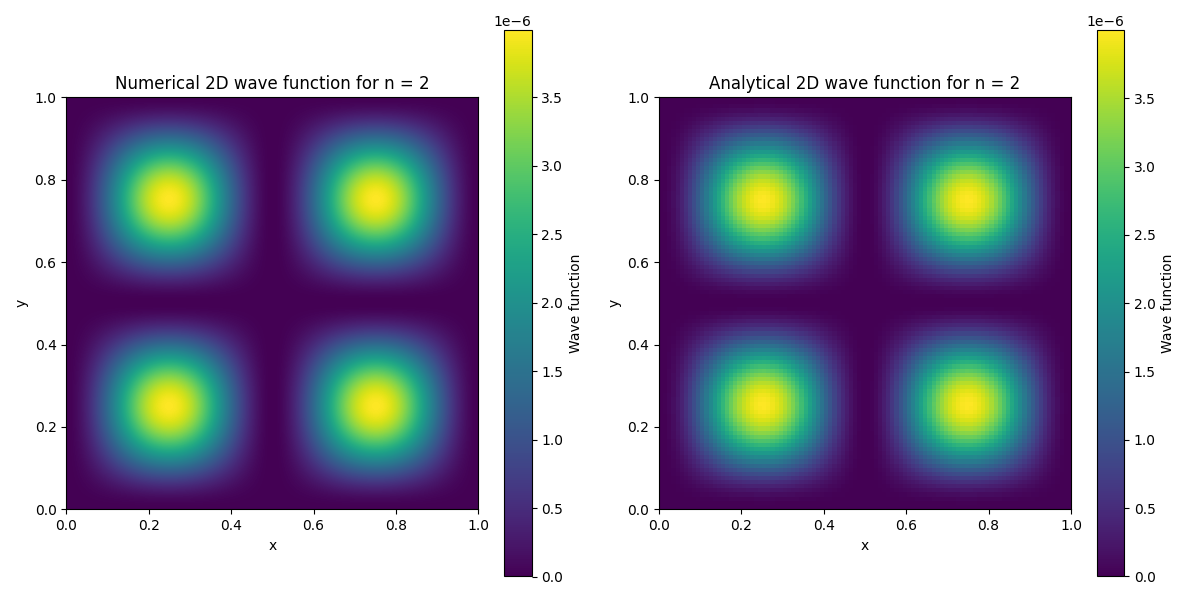
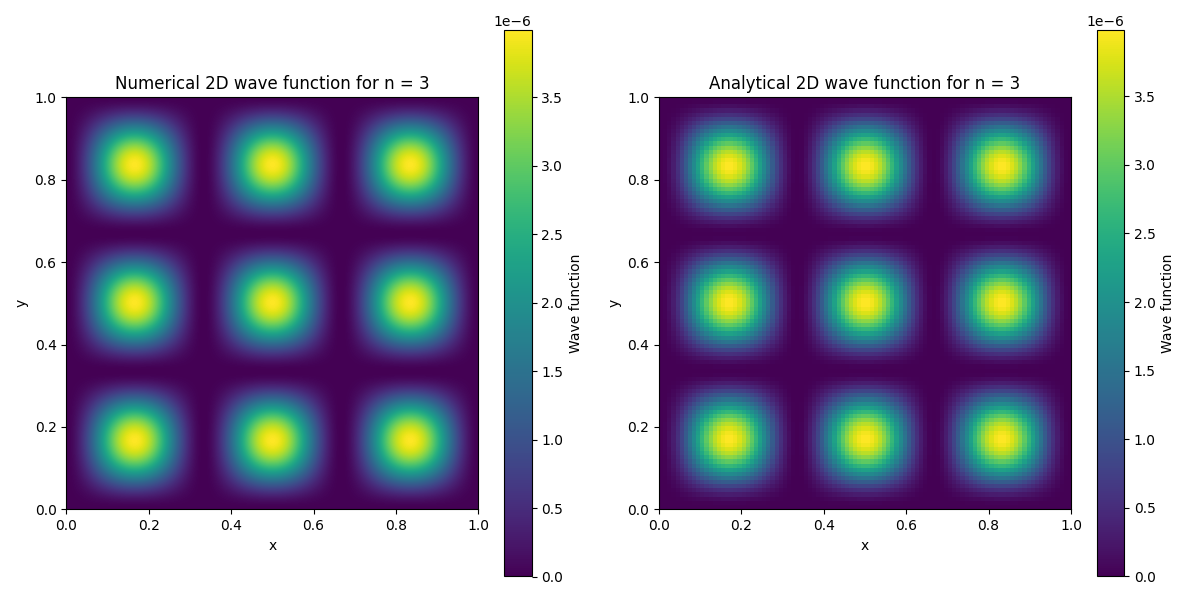
updating

diff --git a/cnub/1D_finite_well.py b/cnub/1D_finite_well.py
@@ -1,0 +1,79 @@
+import numpy as np
+from scipy.optimize import fsolve
+import matplotlib.pyplot as plt
+import math
+
+
+a = 4
+hbar = 1
+m = 1
+V0 = 10
+
+x = np.linspace(0.1, 8, 1000)  # More points for higher accuracy
+
+def RHS(x):
+    return np.tan(x)
+
+def LHS(x):
+    return np.sqrt((a**2 * m * V0) / (2 * hbar**2 * x**2) - 1)
+
+def diff(x):
+    return RHS(x) - LHS(x)
+
+# Initial guesses for energies
+initial_guesses = [1.5, 4, 7]
+
+
+# gives bound state energies
+E = fsolve(diff, initial_guesses)
+
+print("bound state energies:", E)
+
+
+# Plot RHS
+plt.plot(x, RHS(x), label='RHS: tan(x)')
+
+# Plot LHS
+plt.plot(x, LHS(x), label='LHS: sqrt((a^2 * m * V0) / (2 * hbar^2 * x^2) - 1)')
+
+plt.ylim(bottom=0, top=10)
+
+plt.legend()
+plt.grid(True)
+plt.title('Graphs of RHS and LHS functions')
+plt.xlabel('x')
+plt.ylabel('y')
+plt.show()
+
+# just try graphing first energy
+
+# define terms
+E1 = E[0]
+k0 = np.sqrt(2 * m / hbar**2 * (V0 - E1))
+k1 = np.sqrt(2 * m * E1 / hbar**2)
+# below is almost certainly irrelevant, but i don't want to have to rewrite it if it's right
+# F = np.sqrt((1 + 1/(4*k1**3) * ((k1**2 - k0**2) * np.sin(2 * k1 * a) - 4 * k0 * k1 * (np.cos(k1 * a))**2 + 2 * a * k1**3 + k1 * (2 * a * k0**2 + 4 * k0)) - 1/(2*k0))* 2 * k0 * np.e**(2 * k0 * a))
+
+def psi_0(x):
+    return np.exp(k0 * x)
+
+def psi_1(x):
+    return k0/k1 * np.sin(k1 * x) + np.cos(k1 * x)
+
+def psi_2(x):
+    return np.exp(-k0 * x)
+
+# set up linspaces to graph all 3
+x0 = np.linspace(-a/2, 0, 100)
+x1 = np.linspace(0, a, 100)
+x2 = np.linspace(a, 1.5*a, 100)
+
+plt.plot(x0, psi_0(x0), label='Graph 1')
+plt.plot(x1, psi_1(x1), label='Graph 2')
+plt.plot(x2, psi_2(x2), label='Graph 3')
+
+# Add a legend
+plt.legend()
+
+# Show the plot
+plt.show()

diff --git a/cnub/1D_Schrodinger_numerical.py b/cnub/1D_Schrodinger_numerical.py
@@ -32,7 +32,7 @@ psi_norm = normalize(psi)
 # function to graph the nth harmonic
 def harmonic(n, N):
     for i, points_array in enumerate(psi_norm[n-1:n]):
-        plt.plot(points_array, label=f'Numerical: n = {n}')
+        plt.plot(points_array**2, label=f'Numerical: n = {n}')
     
     x = np.linspace(0, N, 100) # x ranges from 0 to 1000
 
@@ -45,18 +45,19 @@ def harmonic(n, N):
     
     for a in range(n, n+1):
         psi_norm_ana = normalize_analytical(a, x)
-        plt.plot(x, psi_norm_ana, label=f'Analytical: n = {a}')
+        plt.plot(x, psi_norm_ana**2, label=f'Analytical: n = {a}', ls=':', color='black')
 
     # Set labels and title
     plt.xlabel('X-axis')
     plt.ylabel('Y-axis')
-    plt.title(f'Harmonic {n}')
+    plt.title(f'Harmonic {n} Probability Distribution')
 
     # Display legend
     plt.legend()
 
     # Show the plot
+    plt.savefig('plots/Schrodinger_1D_Simulation.png')
     plt.show()
 
 
-harmonic(2, N)
+harmonic(4, N)

diff --git a/cnub/2D_Schrodinger_numerical.py b/cnub/2D_Schrodinger_numerical.py
@@ -45,7 +45,7 @@ y = np.linspace(0, N, 100)
 X, Y = np.meshgrid(x, y)
 
 # Calculate the 2D wave function for the nth energy level
-n = 2  # Change this to plot a different energy level
+n = 3  # Change this to plot a different energy level
 psi_2D_num = psi_x_norm[n-1, :, np.newaxis] * psi_y_norm[n-1, np.newaxis, :]
 
 
